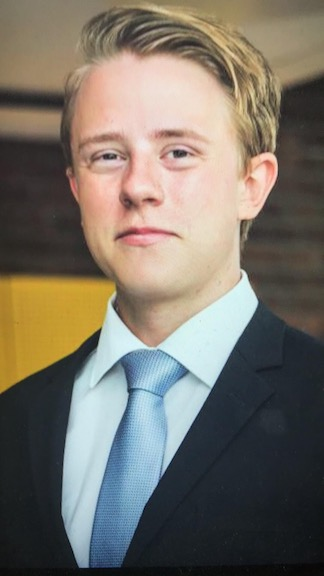
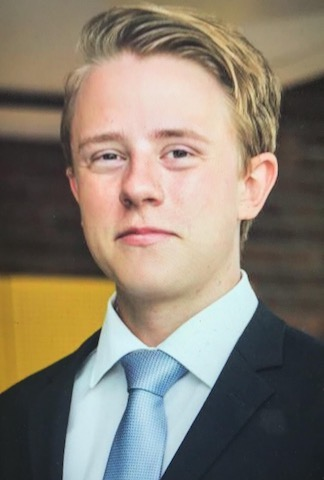
marcus bild croppad

diff --git a/info.md b/info.md
@@ -112,7 +112,7 @@ nav-menu: true
 <section id="three">
 	<div class="inner">
 		<header class="major">
-			<h2>GH Alpha Fund</h2>
+			<h2>Grimheden Holdings Alpha Fund</h2>
 		</header>
 		<p>Grimheden Holdings is trusted to manage more money than any other investment firm in the world, and our business is investing on behalf of our clients, from large institutions to the parents and grandparents, the doctors and teachers who entrust their savings to us.</p>
 		<ul class="actions">
